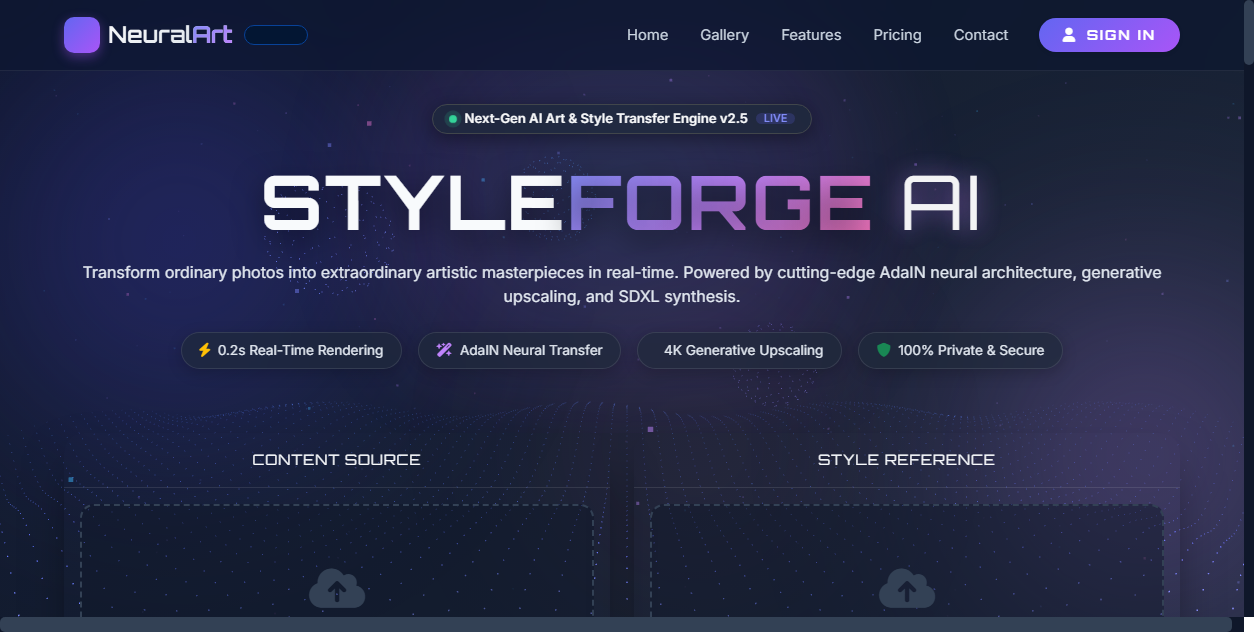
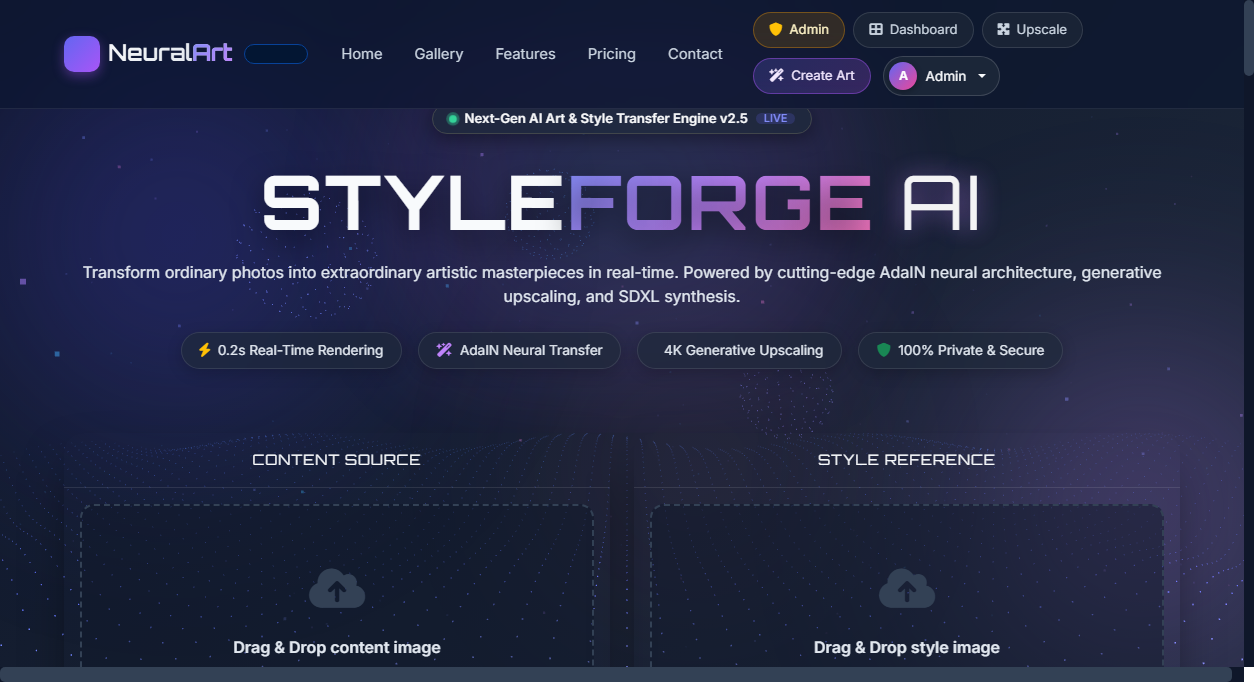
Docs: Update visual showcase with authenticated logged-in Creator Dashboard and Admin Management Portal screenshots

diff --git a/README.md b/README.md
@@ -38,25 +38,25 @@
 
 > **💡 Note on $\alpha$ (Alpha) Parameter**: Notice how $\alpha = 1.0$ applies the full texture and geometry of Picasso's style, while $\alpha = 0.7$ creates a softer blend that preserves more facial likeness from the original content image.
 
-### 1. Interactive Style Studio (`/`)
-![Interactive Style Studio](./examples/screenshot_studio.png)
-*Real-time workspace where creators upload content and style images, adjust α blending sliders, and toggle color preservation mode.*
+### 1. Personal Creator Dashboard (`/dashboard`)
+![Personal Creator Dashboard](./examples/screenshot_dashboard.png)
+*Private management panel tracking personal transfer history, API key generation, and account profile settings.*
 
-### 2. Community Art Gallery (`/gallery`)
+### 2. Admin Management Portal (`/admin`)
+![Admin Management Portal](./examples/screenshot_admin.png)
+*Institutional-grade administration dashboard providing real-time platform analytics, user role management, and system governance.*
+
+### 3. Interactive Style Studio (`/`)
+![Interactive Style Studio](./examples/screenshot_studio.png)
+*Real-time authenticated workspace where creators upload content and style images, adjust α blending sliders, and toggle color preservation mode.*
+
+### 4. Community Art Gallery (`/gallery`)
 ![Community Art Gallery](./examples/screenshot_gallery.png)
 *Social feed displaying user-published artworks with real-time like counters, creator tags, and high-definition download options.*
 
-### 3. AI Art Challenges (`/challenges`)
-![AI Art Challenges](./examples/screenshot_challenges.png)
-*Curated community contests where users submit stylized masterpieces to weekly themed competitions and vote for winners.*
-
-### 4. AI Image Upscaling (`/upscale`)
-![AI Image Upscaling](./examples/screenshot_ai_suite.png)
+### 5. AI Image Upscaling Suite (`/upscale`)
+![AI Image Upscaling Suite](./examples/screenshot_ai_suite.png)
 *Integrated AI upscaling suite allowing creators to transform standard style outputs into ultra-high-resolution prints.*
-
-### 5. Text-to-Image Synthesis (`/text-to-image`)
-![Text-to-Image Synthesis](./examples/screenshot_txt2img.png)
-*Built-in synthetic art generation powered by NLP prompt enhancement and automated styling workflows.*
 
 ---
 